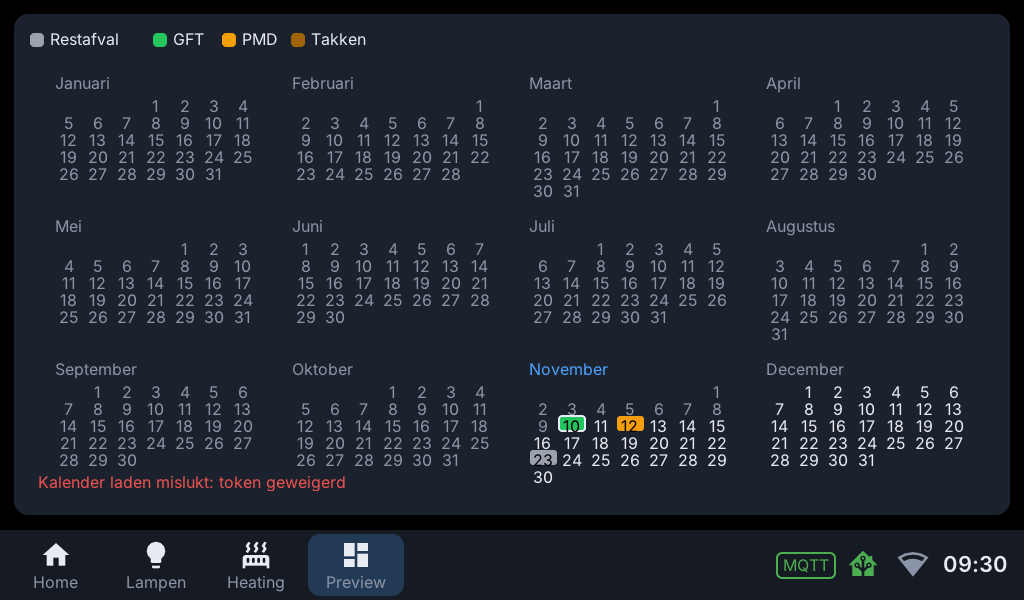
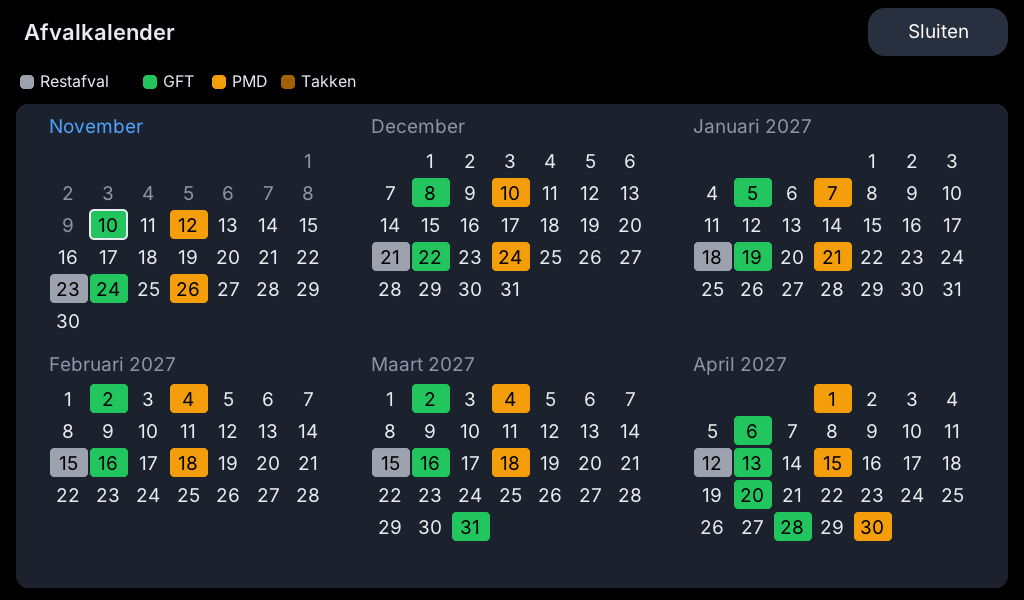
Afval: show the next six months instead of the calendar year
Bigger cells, month names with the year when it changes, calendar fetched
from the first of this month for seven months.

Claude-Session: https://claude.ai/code/session_016ZLqnyJd8QLDWCCnquR1SF

diff --git a/afval/main.js b/afval/main.js
@@ -1,7 +1,7 @@
 // Afvalkalender for ReToon. The card shows the next collection; the full screen
-// shows the whole year. The next dates come from sensors that give
+// shows the next months. The next dates come from sensors that give
 // the days until the next collection (attribute Days_until, date in Sort_date as
-// yyyymmdd). The rest of the year comes from a Home Assistant calendar entity
+// yyyymmdd). The following months come from a Home Assistant calendar entity
 // (optional): that needs the Home Assistant address and a long-lived token,
 // because an app can only read states and has to call the REST API for events.
 
@@ -135,7 +135,7 @@ function drawTile(el) {
 	for (let i = shown; i < list.length && y + 44 <= el.height; i++, y += 44) row(el, list[i], y, el.width);
 }
 
-// ---- full screen: the year
+// ---- full screen: the next months
 
 // "yyyy-mm-dd" -> [stream index]: the calendar plus the next date of every sensor
 function daysMap() {
@@ -146,30 +146,32 @@ function daysMap() {
 	return map;
 }
 
+// the next 6 months, starting with the current one: 3 columns x 2 rows
+const MONTHS_SHOWN = 6;
+
 function drawYear(el, W, H) {
 	const now = new Date();
-	const year = now.getFullYear();
-	const today = key(year, now.getMonth(), now.getDate());
+	const today = key(now.getFullYear(), now.getMonth(), now.getDate());
 	const map = daysMap();
-	const cols = 4, mw = Math.floor(W / cols), cw = 29, gap = 14;
-	// the rows of months share the height of the card: cells of 15 to 20 px
-	const mh = Math.floor((H + gap) / 3), ch = Math.max(15, Math.min(20, Math.floor((mh - 22 - gap) / 6))), top = 0;
+	const cols = 3, mw = Math.floor(W / cols), cw = 40, gap = 16;
+	// the two rows of months share the height of the card
+	const mh = Math.floor((H + gap) / 2), ch = Math.max(20, Math.min(34, Math.floor((mh - 30 - gap) / 6)));
 	const colors = streams().map(s => colorOf(s, nameOf(s)));
-	for (let m = 0; m < 12; m++) {
-		const x0 = (m % cols) * mw + Math.floor((mw - 7 * cw) / 2), y0 = top + Math.floor(m / cols) * mh;
-		el.text(MONTHS[m], { x: x0, y: y0, font: "small", color: m === now.getMonth() ? "accent" : "muted" });
-		const first = (new Date(year, m, 1).getDay() + 6) % 7;
+	for (let i = 0; i < MONTHS_SHOWN; i++) {
+		const date = new Date(now.getFullYear(), now.getMonth() + i, 1), year = date.getFullYear(), m = date.getMonth();
+		const x0 = (i % cols) * mw + Math.floor((mw - 7 * cw) / 2), y0 = Math.floor(i / cols) * mh;
+		el.text(MONTHS[m] + (year !== now.getFullYear() ? " " + year : ""), { x: x0, y: y0, color: i === 0 ? "accent" : "muted" });
+		const first = (date.getDay() + 6) % 7;
 		const count = new Date(year, m + 1, 0).getDate();
 		for (let d = 1; d <= count; d++) {
-			const p = first + d - 1, cx = x0 + (p % 7) * cw, cy = y0 + 22 + Math.floor(p / 7) * ch;
+			const p = first + d - 1, cx = x0 + (p % 7) * cw, cy = y0 + 30 + Math.floor(p / 7) * ch;
 			const k = key(year, m, d), on = map[k];
 			if (on) {
 				const part = Math.floor((cw - 2) / on.length);
-				on.forEach((si, j) => el.box({ x: cx + 1 + j * part, y: cy, w: part, h: ch - 2, bg: colors[si] || "accent", radius: 3 }));
+				on.forEach((si, j) => el.box({ x: cx + 1 + j * part, y: cy, w: part, h: ch - 3, bg: colors[si] || "accent", radius: 4 }));
 			}
-			const isToday = k === today;
-			if (isToday) el.box({ x: cx, y: cy - 1, w: cw - 1, h: ch, radius: 4, border: 2, borderColor: "text" });
-			el.text(String(d), { x: cx, y: cy + 1, w: cw - 1, textAlign: "center", font: "small",
+			if (k === today) el.box({ x: cx, y: cy - 1, w: cw - 1, h: ch - 1, radius: 5, border: 2, borderColor: "text" });
+			el.text(String(d), { x: cx, y: cy + Math.floor((ch - 3 - 19) / 2), w: cw - 1, textAlign: "center",
 				color: on ? "background" : k < today ? "muted" : "text" });
 		}
 	}
@@ -189,7 +191,7 @@ function drawScreen(root) {
 		root.text(clip(n, 14), { x: lx + 20, y: 4, font: "small" });
 		lx += 20 + Math.min(14, n.length) * 9 + 22;
 	});
-	// the card under it, with the year on it
+	// the card under it, with the months on it
 	const W = root.width - 24, H = root.height - TOP - 24;
 	const el = root.box({ x: 0, y: TOP, w: root.width, h: root.height - TOP, bg: "card", radius: 12 }).box({ x: 12, y: 12, w: W, h: H });
 	drawYear(el, W, H);
@@ -201,9 +203,10 @@ function drawScreen(root) {
 async function loadCalendar() {
 	const cal = S().calendar, url = (S().haUrl || "").replace(/\/+$/, "");
 	if (!cal || !url || !S().token) { events = {}; calError = ""; return; }
-	const y = new Date().getFullYear();
+	const n = new Date(), from = new Date(n.getFullYear(), n.getMonth(), 1), to = new Date(n.getFullYear(), n.getMonth() + MONTHS_SHOWN + 1, 1);
+	const iso = d => key(d.getFullYear(), d.getMonth(), 1) + "T00:00:00Z";
 	try {
-		const r = await retoon.fetch(url + "/api/calendars/" + cal + "?start=" + y + "-01-01T00:00:00Z&end=" + (y + 1) + "-01-01T00:00:00Z", {
+		const r = await retoon.fetch(url + "/api/calendars/" + cal + "?start=" + iso(from) + "&end=" + iso(to), {
 			headers: { "Authorization": "Bearer " + S().token }, timeout: 20 });
 		if (r.status === 401) throw new Error("token geweigerd");
 		if (r.status >= 300) throw new Error("HTTP " + r.status);

diff --git a/docs/afval-app.md b/docs/afval-app.md
@@ -11,7 +11,7 @@ also shows the days after it.
 
 ![The card on the Home page](images/afval-card.png)
 
-**The full screen** (tap the card) is the whole year: twelve months, each
+**The full screen** (tap the card) shows the next six months, starting with this one, each
 collection day in the colour of its kind of waste, today with an outline, and
 the colours explained above the calendar.
 
@@ -23,7 +23,7 @@ the colours explained above the calendar.
    (for example `sensor.meerlanden_gft`) with the attributes `Days_until` and
    `Sort_date`, and a calendar (for example `calendar.afvalbeheer_meerlanden`).
 2. ReToon connected to Home Assistant, so the app can read the sensors.
-3. For the **whole year** only (without it the full screen shows the next date
+3. For the **following months** only (without it the full screen shows the next date
    of each kind): a **long-lived access token**. Open
    <https://my.home-assistant.io/redirect/profile_security/> (it asks once for
    the address of your Home Assistant and goes to your profile, tab
@@ -39,7 +39,7 @@ In the Toon's web interface under **Apps**:
 | Setting | What to enter |
 |---|---|
 | Waste sensors | One row for each kind of waste (up to 6): the sensor, and optionally a name, icon and colour |
-| Waste calendar | The calendar of the integration (optional, for the whole year) |
+| Waste calendar | The calendar of the integration (optional, for the following months) |
 | Home Assistant address | For the calendar, without a path |
 | Long-lived access token | The token from step 3 |
 
@@ -54,7 +54,7 @@ paars, geel) or `#rrggbb`, and an icon such as `mdi:leaf`.
 
 An app can read the states of Home Assistant entities (`retoon.watch`), and
 that is all the card needs, so the card works without a token. A sensor only
-knows the next collection, though. The rest of the year is in the calendar,
+knows the next collection, though. The dates after that are in the calendar,
 and an app cannot read a calendar through the app interface: it asks the Home
 Assistant REST API (`/api/calendars/...`) itself with `retoon.fetch`, and for
 that it needs a token.
@@ -63,5 +63,5 @@ The token is only sent to the address you enter, and the app makes no other
 request. It reads the calendar when it starts, after saving the settings, and
 every 6 hours. Without a token the card is unchanged.
 
-Collection dates further ahead appear as soon as the waste collector publishes
-them: with Meerlanden the calendar currently ends at the end of the year.
+Dates further ahead appear as soon as the waste collector publishes
+them: with Meerlanden the calendar currently runs about twelve months ahead, so six months are always filled.

diff --git a/README.md b/README.md
@@ -6,7 +6,7 @@ and optionally a full screen that opens when the card is tapped.
 
 | App | What it does |
 |---|---|
-| [afval](afval) | When each kind of waste is collected: the next collection on a card, the whole year on the full screen ([setup](docs/afval-app.md)) |
+| [afval](afval) | When each kind of waste is collected: the next collection on a card, the next six months on the full screen ([setup](docs/afval-app.md)) |
 | [spotenergy](spotenergy) | Dynamic electricity prices for the Netherlands, with taxes, as a card and a full-screen graph |
 | [powerflow](powerflow) | Where the power in your home comes from and goes to, with moving dots |
 
